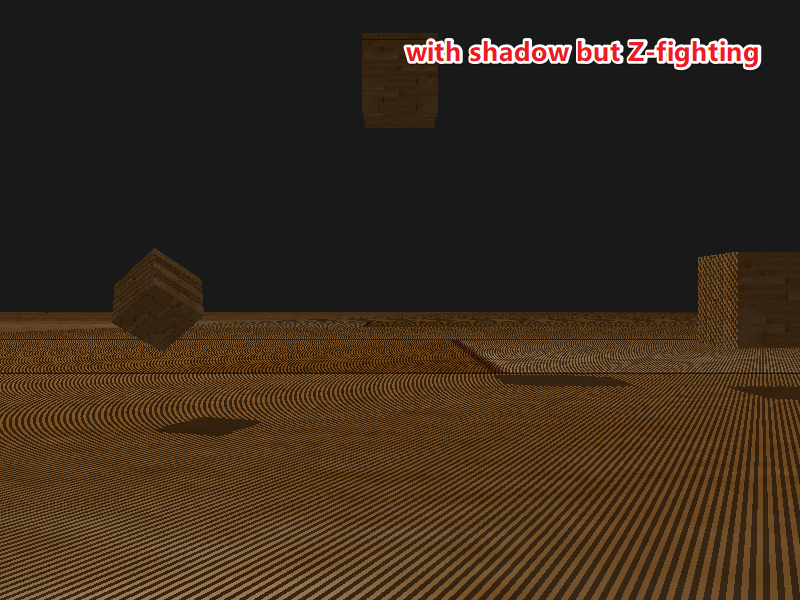
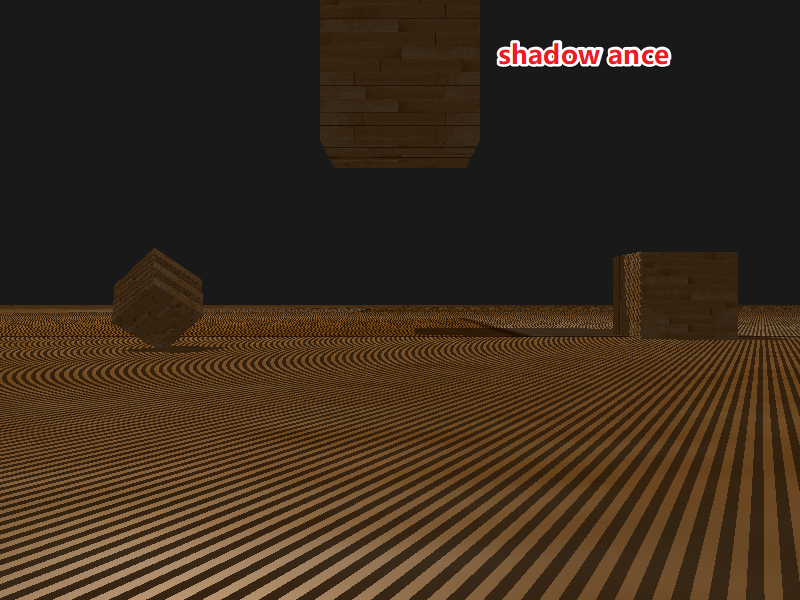
- added shadow bias to fixe shadown Z-fighting issue

diff --git a/project/OpenGLFW/src/advancedLighting/main_03_ShadowMapping.cpp b/project/OpenGLFW/src/advancedLighting/main_03_ShadowMapping.cpp
@@ -97,8 +97,9 @@ int main()
 		// 1. render depth of scene to texture (from light's perspecitve)
 		glm::mat4 matrixLightP, matrixLightV;
 		glm::mat4 matrixLightSpaceVP;
-		float nearPlane = 1.0f, farPlane = 7.5f;
-		matrixLightP = glm::ortho(-10.0f, 10.0f, -10.0f, 10.0f, nearPlane, farPlane);
+		float nearPlane = 1.0f, farPlane = 10.0f;
+		const float lightHalfWidth = 10.0f;
+		matrixLightP = glm::ortho(-lightHalfWidth, lightHalfWidth, -lightHalfWidth, lightHalfWidth, nearPlane, farPlane);
 		matrixLightV = glm::lookAt(lightPos, V::zero, V::up);
 		matrixLightSpaceVP = matrixLightP * matrixLightV;
 		// render scene from light's point of view
@@ -109,6 +110,7 @@ int main()
 			// render scene
 			// floor
 			glm::mat4 matrixM = glm::mat4(1.0f);
+			matrixM = glm::translate(matrixM, glm::vec3(0, 0.3, 1));
 			matrixM = glm::scale(matrixM, glm::vec3(25, 1, 25));
 			shader.setMat4("M", matrixM);
 			plane.draw(shader);
@@ -116,12 +118,12 @@ int main()
 			// cubes
 			matrixM = glm::mat4(1.0f);
 			matrixM = glm::translate(matrixM, glm::vec3(0.0f, 1.5f, 0.0f));
-			matrixM = glm::scale(matrixM, glm::vec3(0.5f));
+			matrixM = glm::scale(matrixM, glm::vec3(1.0f));
 			shader.setMat4("M", matrixM);
 			cube.draw(shader);
 
 			matrixM = glm::mat4(1.0f);
-			matrixM = glm::translate(matrixM, glm::vec3(2.0f, 0.0f, 1.0f));
+			matrixM = glm::translate(matrixM, glm::vec3(1.5f, 0.0f, 1.0f));
 			matrixM = glm::scale(matrixM, glm::vec3(0.5f));
 			shader.setMat4("M", matrixM);
 			cube.draw(shader);
